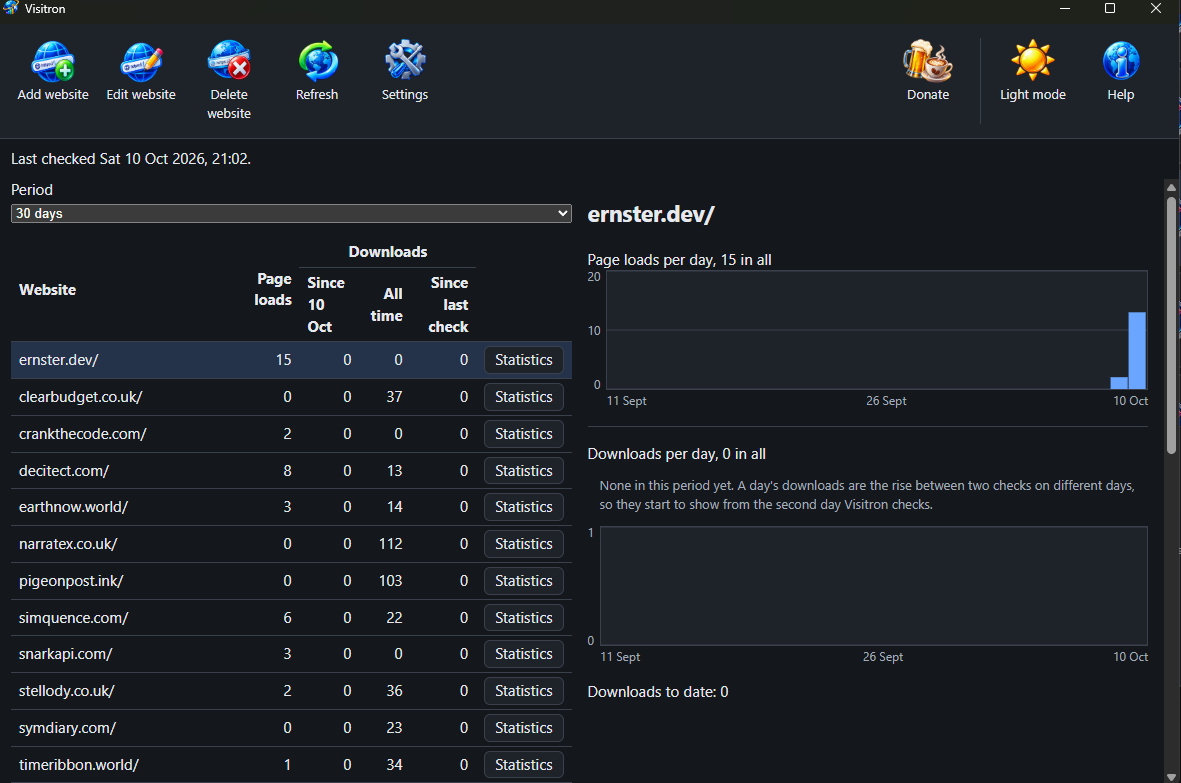
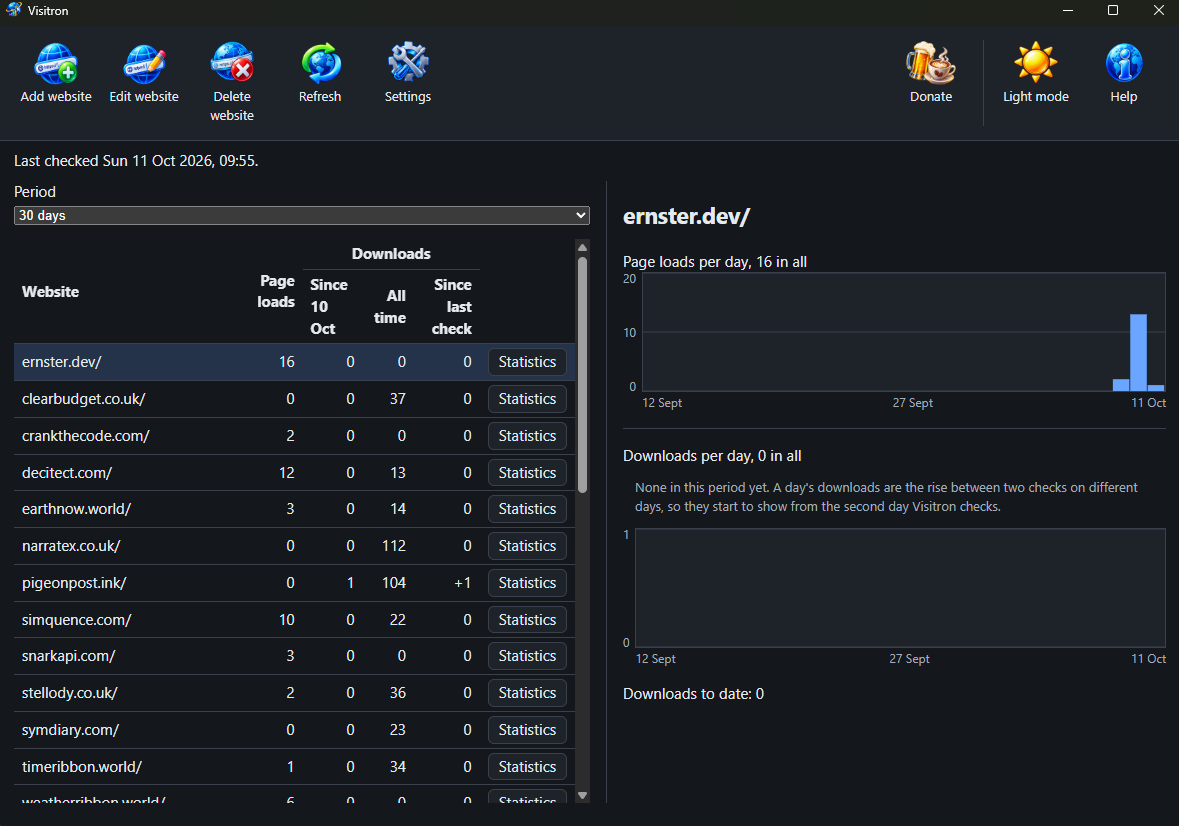
Show the divided window and the narrower Statistics dialog on the site

diff --git a/docs/index.html b/docs/index.html
@@ -87,8 +87,8 @@
         it never changes anything on GoatCounter or GitHub.</p>
 
     <figure class="shot wide">
-        <img src="screenshots/main-ui.png" width="1181" height="783"
-             alt="The Visitron window: the list of websites with page loads and downloads for each and a Statistics button at the end of every row, beside the selected website's charts of page loads and downloads per day."/>
+        <img src="screenshots/main-ui.png" width="1179" height="826"
+             alt="The Visitron window: the list of websites with page loads and downloads for each and a Statistics button at the end of every row, divided by a rule from the selected website's charts of page loads and downloads per day."/>
     </figure>
 </div>
 

diff --git a/docs/features.html b/docs/features.html
@@ -79,8 +79,8 @@
                 </ul>
             </div>
             <figure class="shot">
-                <img src="screenshots/statistics.png" width="957" height="588"
-                     alt="A website's Statistics: downloads to date by platform, by repository and by release with the newest release first, then visitors by country over 30 days, largest first."/>
+                <img src="screenshots/statistics.png" width="533" height="654"
+                     alt="A website's Statistics: downloads to date by platform, by repository and by release with the newest version first, then visitors by country over 30 days, largest first."/>
             </figure>
         </div>
     </div>
